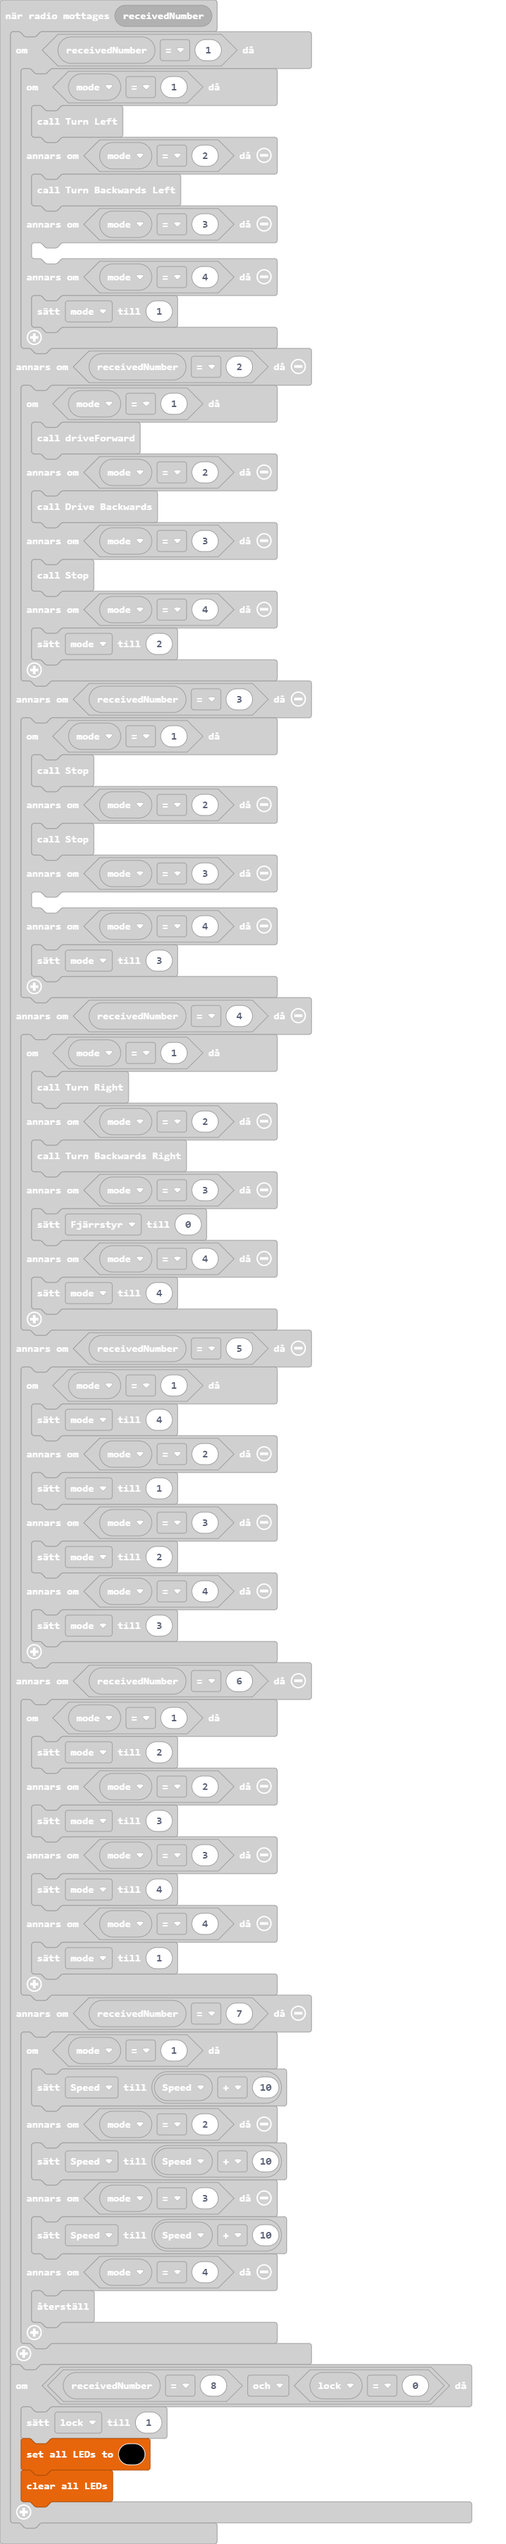
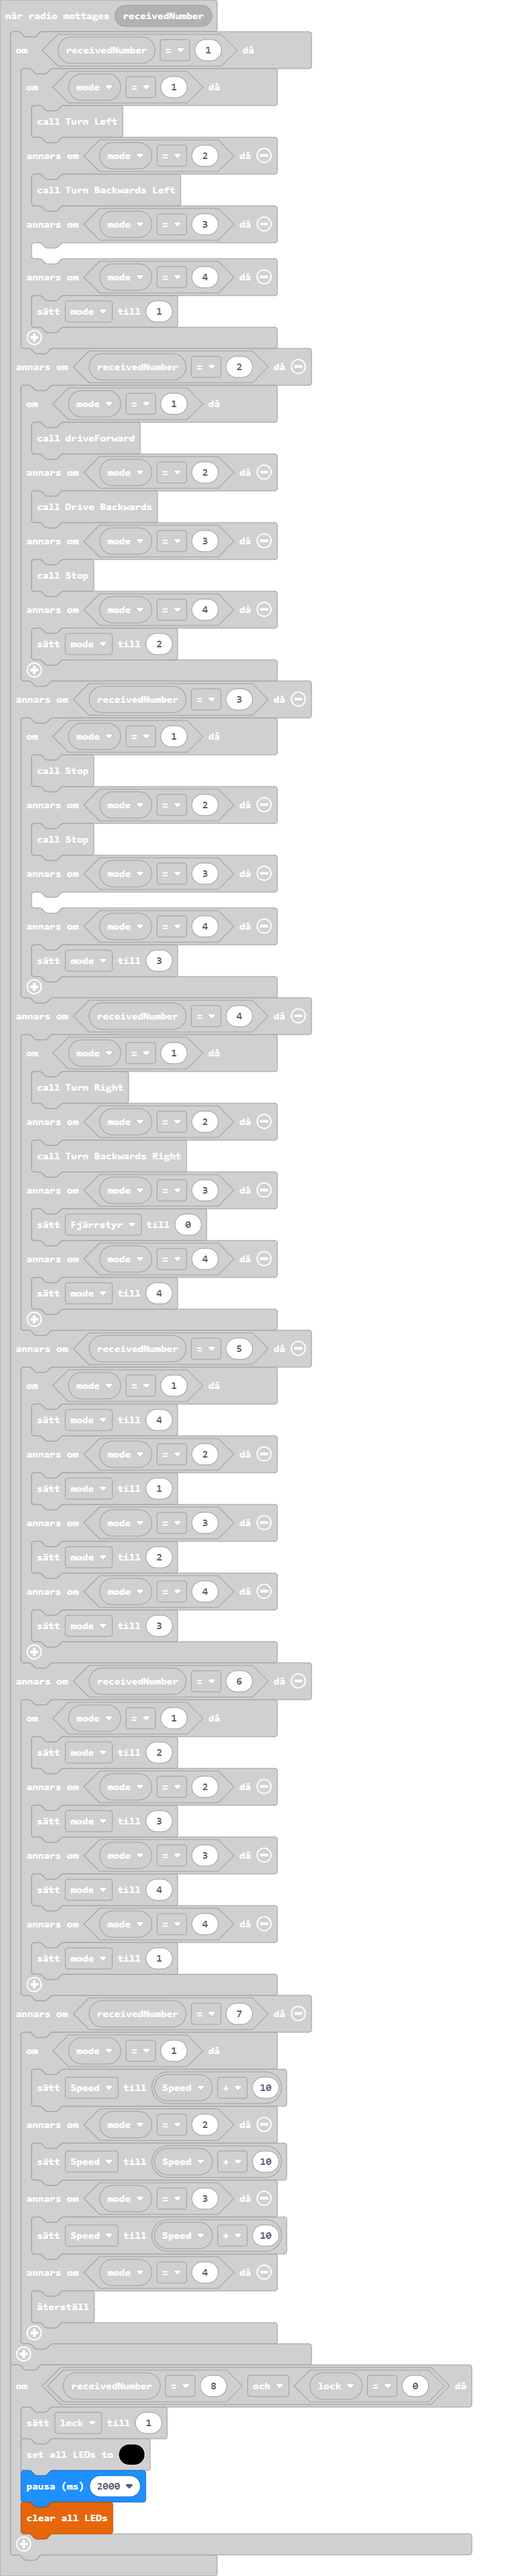
Update main.blocks, main.ts

Changed region(s): [[0.03, 0.0, 0.9296, 0.9959]]

diff --git a/main.ts b/main.ts
@@ -118,6 +118,7 @@ radio.onReceivedNumber(function (receivedNumber) {
     if (receivedNumber == 8 && lock == 0) {
         lock = 1
         bitbot.setLedColor(0x000000)
+        basic.pause(2000)
         bitbot.ledClear()
     }
 })
